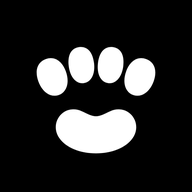
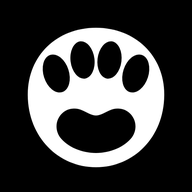
fix: 识别后端空 user_id 系统消息并圆润猫爪图标
Treat sender objects with a null user_id as system messages so the muted style and hide toggle actually apply; thicken the owner nickname stroke to 2px; replace the paw icon with a smooth layered black-background, white-paw, black-pad design without protruding lobes.

diff --git a/frontend/src/components/MessageList.tsx b/frontend/src/components/MessageList.tsx
@@ -4,6 +4,7 @@ import type { Attachment, Member, Message } from "../api";
 import { assetUrl } from "../api";
 import { fmtMsgTime } from "../lib/time";
 import { renderRichText } from "../lib/markdown";
+import { isSystemMessage } from "../lib/messages";
 import { LinkPreview } from "./LinkPreview";
 
 interface MessageListProps {
@@ -234,7 +235,7 @@ export const MessageItem = memo(function MessageItem({
     [message.body, mentionNames, emojis],
   );
 
-  if (!message.sender) {
+  if (isSystemMessage(message)) {
     return (
       <li className="message system">
         <span className="who system">系统</span>
@@ -243,7 +244,7 @@ export const MessageItem = memo(function MessageItem({
     );
   }
 
-  const mine = !!myUserId && message.sender.user_id === myUserId;
+  const mine = !!myUserId && message.sender?.user_id === myUserId;
   const ageMs = Date.now() - Date.parse(message.created_at);
   const canEdit =
     mine &&
@@ -274,13 +275,13 @@ export const MessageItem = memo(function MessageItem({
         </span>
       )}
       <span className="who">
-        {message.sender.nickname ||
-          message.sender.username ||
-          message.sender.user_id?.slice(0, 8)}
+        {message.sender?.nickname ||
+          message.sender?.username ||
+          message.sender?.user_id?.slice(0, 8)}
         {isOwner && (
           <span
             className="tag msg-owner"
-            title={`账号：@${message.sender.username ?? message.sender.user_id}`}
+            title={`账号：@${message.sender?.username ?? message.sender?.user_id}`}
           >
             房主
           </span>

diff --git a/frontend/src/pages/Room.tsx b/frontend/src/pages/Room.tsx
@@ -12,7 +12,7 @@ import { throttleLeading, throttleTrailing } from "../hooks/throttle";
 import { getVolumePref } from "../hooks/remoteAudio";
 import { MessageList } from "../components/MessageList";
 import { Webhooks } from "../components/Webhooks";
-import { mergeMessages, mergeOlder } from "../lib/messages";
+import { isSystemMessage, mergeMessages, mergeOlder } from "../lib/messages";
 import { fmtAgo } from "../lib/time";
 import { soundEnabled, subscribeSound } from "../lib/soundPref";
 import { loadBitrateTiers } from "../lib/voiceOptions";
@@ -56,9 +56,9 @@ export default function RoomPage() {
   const [announcementDismissed, setAnnouncementDismissed] = useState(false);
   const messagesRef = useRef<Message[]>([]);
   messagesRef.current = messages;
-  const hasSystemMessages = React.useMemo(() => messages.some((m) => !m.sender), [messages]);
+  const hasSystemMessages = React.useMemo(() => messages.some(isSystemMessage), [messages]);
   const visibleMessages = React.useMemo(
-    () => (hideSystem ? messages.filter((m) => !!m.sender) : messages),
+    () => (hideSystem ? messages.filter((m) => !isSystemMessage(m)) : messages),
     [messages, hideSystem],
   );
   // 消息列表滚动：贴底时跟随新消息，翻页时保持当前视口锚点。
@@ -479,7 +479,7 @@ export default function RoomPage() {
           if (
             !stickToBottomRef.current &&
             m.sender?.user_id !== myUserId &&
-            !(hideSystemRef.current && !m.sender)
+            !(hideSystemRef.current && isSystemMessage(m))
           ) {
             setUnread((n) => n + 1);
           }

diff --git a/frontend/src/components/MessageList.test.tsx b/frontend/src/components/MessageList.test.tsx
@@ -108,6 +108,17 @@ describe("MessageList", () => {
     expect(container.querySelector(".reply-quote")).not.toBeInTheDocument();
   });
 
+  it("treats a null user_id sender object as a system message", () => {
+    const system = userMessage("sys-null-id", 2, "系统消息", {
+      sender: { user_id: null, username: null, nickname: null },
+    });
+    const { container } = renderList([system]);
+    const item = screen.getByRole("listitem");
+    expect(item).toHaveClass("message", "system");
+    expect(within(item).getByText("系统消息")).toHaveClass("body");
+    expect(within(item).queryByRole("button")).not.toBeInTheDocument();
+    expect(container.querySelector(".reply-quote")).not.toBeInTheDocument();
+  });
   it("renders reply quotes and keeps normal message actions", () => {
     const message = userMessage("reply", 2, "answer", {
       reply: { id: "orig", sender: "Alice", uid: "u1", body: "original body" },

diff --git a/frontend/src/lib/messages.ts b/frontend/src/lib/messages.ts
@@ -1,4 +1,8 @@
 import type { Message } from "../api";
+/** 后端系统消息仍会下发 sender 对象，但 user_id 为 null；不能只判断 sender 是否存在。 */
+export function isSystemMessage(message: Message): boolean {
+  return !message.sender || !message.sender.user_id;
+}
 
 /** 按服务端 seq 排序：断线补齐/搜索结果/实时消息可以乱序到达。 */
 function bySeq(a: Message, b: Message): number {

diff --git a/frontend/src/styles.css b/frontend/src/styles.css
@@ -3050,7 +3050,7 @@ button.who-name {
 .member-main .who.owner .who-name {
   color: var(--bg);
   font-weight: 700;
-  -webkit-text-stroke: 1px var(--text);
+  -webkit-text-stroke: 2px var(--text);
   paint-order: stroke fill;
 }
 

diff --git a/CHANGELOG.md b/CHANGELOG.md
@@ -1,5 +1,6 @@
 # Changelog
-- 2026-11-11（房主标识/设置/头像/图标）：房主昵称改为普通字色反色填充、反色描边；设置页选中标签改白字；修复非方形头像裁剪预览被压成正方形；应用图标改为黑底白色猫爪，Service Worker 缓存升级 v4。
+- 2026-11-11（修复）：系统消息识别兼容后端下发的 `sender.user_id=null`，确保灰色小字、无消息操作和隐藏开关生效；房主昵称描边加粗到 2px。
+- 2026-11-11（房主标识/设置/头像/图标）：房主昵称改为普通字色反色填充、反色描边；设置页选中标签改白字；修复非方形头像裁剪预览被压成正方形；应用图标改为黑底白色猫爪、黑色肉垫，白色爪体圆润无突出，Service Worker 缓存升级 v4。
 - 2026-11-11（系统消息/通知设置）：系统消息改为灰色小号背景信息并移除全部消息操作，新增“隐藏系统消息”开关；通知范围与免打扰改为卡片式分段选择，统一设置页视觉。
 - 2026-11-11（房主标识/移动端语音条）：房主头像不再加描边，昵称改为金色描边；手机端表情按钮等分整行，间距与下方控制按钮网格一致。
 - 2026-11-11（语音/移动端）：房主头像改用边框标识，避免覆盖说话音量环；扬声器静音同时静音远端媒体元素，修复手机端无效；手机端表情按钮恢复横排，离开语音按钮不再单独悬挂一格。
